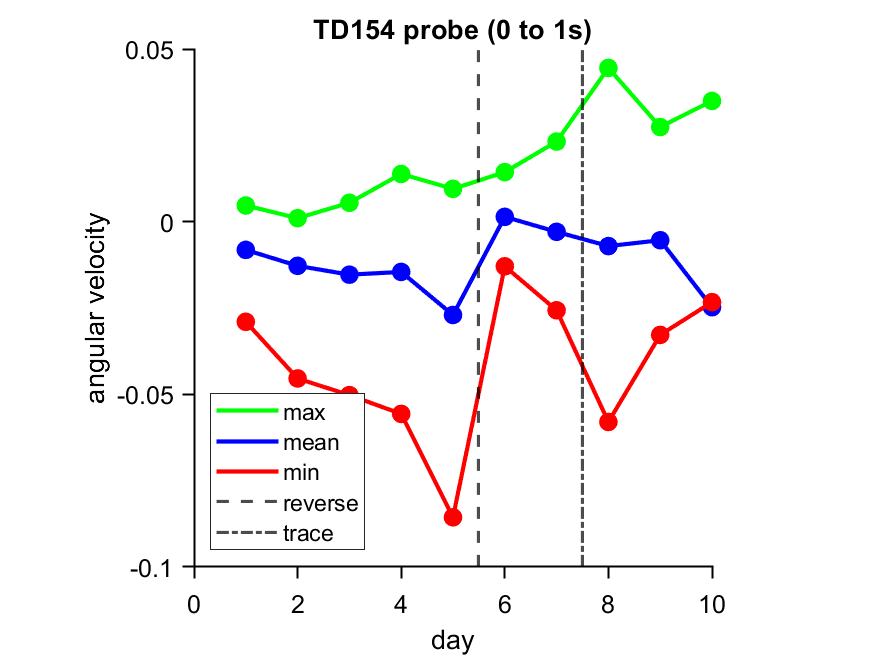
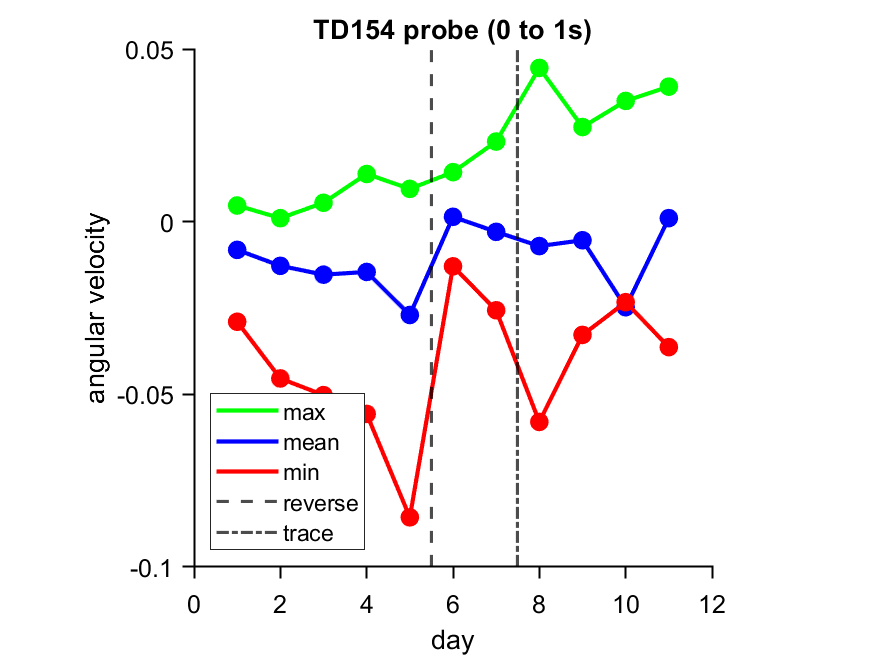
updated script multiple_d1_analysis
added data
also updated new script to take in multiple sessions of data and plot them

diff --git a/plotTrialHeatmaps2.m b/plotTrialHeatmaps2.m
@@ -1,0 +1,85 @@
+function plotTrialHeatmaps2(smooth_resamp_vels, trial_arrays, trialTypes, fs, window, doBaseline)
+% plotTrialHeatmaps2
+%   Plots trial-by-trial angular velocity aligned to cue onset.
+%   Handles multiple sessions (smooth_resamp_vels is a cell array: 1 cell per session).
+%
+% Inputs:
+%   smooth_resamp_vels : cell array of velocity vectors (1 cell per session)
+%   trial_arrays       : cell array of structs with .onsetTime (s)
+%   trialTypes         : labels for trial types (cell array of strings)
+%   fs                 : sampling rate (Hz)
+%   window             : [precue postcue] in seconds
+%   doBaseline         : logical, true = subtract baseline (pre-cue mean)
+
+precue  = window(1);
+postcue = window(2);
+timeAxis = -precue : 1/fs : postcue;
+
+nSessions = numel(smooth_resamp_vels);
+
+for tt = 1:numel(trial_arrays)
+    trials = trial_arrays{tt};
+
+    if ~isfield(trials,'onsetTime') || isempty(trials.onsetTime)
+        fprintf('No trials for %s\n', trialTypes{tt});
+        continue;
+    end
+
+    % --- Concatenate trials across sessions in order ---
+    onsetTimes = [];
+    trialSessionIdx = [];  % Keep track of which session each trial came from
+    for s = 1:nSessions
+        thisSession = trials.onsetTime(s,:);
+        thisSession = thisSession(~isnan(thisSession)); % drop padding
+        onsetTimes  = [onsetTimes, thisSession];
+        trialSessionIdx = [trialSessionIdx, repmat(s, 1, numel(thisSession))];
+    end
+
+    nTrials = numel(onsetTimes);
+    nTime   = numel(timeAxis);
+    trialMatrix = nan(nTrials, nTime);
+
+    % --- Extract aligned trial data for each session separately ---
+    for t = 1:nTrials
+        sIdx = trialSessionIdx(t);         % session index for this trial
+        velVec = smooth_resamp_vels{sIdx}; % velocity for this session
+
+        onsetFrame = round(onsetTimes(t) * fs);
+        winFrames  = round((-precue*fs : postcue*fs)) + onsetFrame;
+
+        if winFrames(1) < 1 || winFrames(end) > numel(velVec)
+            continue;
+        end
+
+        trialData = velVec(winFrames);
+
+        % --- baseline subtraction ---
+        if doBaseline
+            baselineIdx = timeAxis < 0; % indices before cue
+            baselineVal = mean(trialData(baselineIdx));
+            trialData   = trialData - baselineVal;
+        end
+
+        trialMatrix(t,:) = trialData;
+    end
+    % --- After trialMatrix is built and imagesc is called ---
+    figure;
+    imagesc(timeAxis, 1:nTrials, trialMatrix);
+    clim([-0.2 0.2]);  
+    colormap(hot); 
+    colorbar;
+    xlabel('time (s)');
+    ylabel('trial');
+    title(sprintf('angular velocity: %s', trialTypes{tt}));
+    xline(0,'w--','LineWidth',1.5);
+    
+    % --- Add session separators ---
+    sessionTrialCounts = cellfun(@(r) sum(~isnan(r)), num2cell(trials.onsetTime, 2)); 
+    cumulativeTrials = cumsum(sessionTrialCounts);
+    for k = 1:length(cumulativeTrials)-1
+        yline(cumulativeTrials(k)+0.5, 'w--', 'LineWidth', 1);
+    end
+    
+    SetFigBoxDefaults
+end
+end

diff --git a/Multiple_D1_Analysis.m b/Multiple_D1_Analysis.m
@@ -58,26 +58,32 @@ laser_pulse_dur = allStimuli(1).stimuli.lasertimes.laserPulseDur;
 laser_trial_freq = allStimuli(1).stimuli.lasertimes.laserFreq;
 laser_trial_dur = allStimuli(1).stimuli.lasertimes.laserDur;
 
-% Track cumulative time offset (to make times chronological)
-timeOffset = 0;
+%% --- Store session velocities and cue/laser times without cumulative offset ---
+% smooth_resamp_vels will be a cell array (each cell = one session)
+smooth_resamp_vels = cell(1, nSessions);
+
+% Determine max number of cues/lasers across sessions for padding
+maxCue1 = max(cellfun(@(s) numel(s.stimuli.cue1times), num2cell(allStimuli)));
+maxCue2 = max(cellfun(@(s) numel(s.stimuli.cue2times), num2cell(allStimuli)));
+maxLaser = max(cellfun(@(s) numel(s.stimuli.lasertimes.laserontimes), num2cell(allStimuli)));
+
+% Initialize numeric arrays with NaNs for cues and lasers
+Cue1_times = nan(nSessions, maxCue1);
+Cue2_times = nan(nSessions, maxCue2);
+laser_trial_times = nan(nSessions, maxLaser);
 
 for i = 1:nSessions
     stim = allStimuli(i).stimuli;
 
-    % --- concat ball velocity ---
-    smooth_resamp_vels = [smooth_resamp_vels; stim.ball_angular_vel];
+    % --- store session velocities ---
+    smooth_resamp_vels{i} = stim.ball_angular_vel;
 
-    % --- cue times (adjusted for offset) ---
-    Cue1_times = [Cue1_times; stim.cue1times + timeOffset];
-    Cue2_times = [Cue2_times; stim.cue2times + timeOffset];
-
-    % --- laser onset times (adjusted for offset) ---
-    laser_trial_times = [laser_trial_times; stim.lasertimes.laserontimes + timeOffset];
-
-    % update offset (convert to seconds based on sample count / sampling freq)
-    durationSec = numel(stim.ball_angular_vel) / stim.stimsamplingrate;
-    timeOffset = timeOffset + durationSec;
+    % --- pad cue/laser times with NaNs to fit numeric array ---
+    Cue1_times(i,1:numel(stim.cue1times)) = stim.cue1times;
+    Cue2_times(i,1:numel(stim.cue2times)) = stim.cue2times;
+    laser_trial_times(i,1:numel(stim.lasertimes.laserontimes)) = stim.lasertimes.laserontimes;
 end
+
 
 %% Build Cue structures
 Cue1 = struct();
@@ -101,10 +107,10 @@ trialTypes  = {'Cue 1','Cue 2','Probe'};
 trial_arrays = {new_cue1, new_cue2, cue_probe};
 
 precue = 1;
-postcue = 6;
+postcue = 5;
 doBaseline = 0; % Only really matters if mouse is runnning a lot before cue onset
 
-plotTrialHeatmaps(smooth_resamp_vels, trial_arrays, trialTypes, finalFPS, [precue, postcue], doBaseline);
+plotTrialHeatmaps2(smooth_resamp_vels, trial_arrays, trialTypes, finalFPS, [precue, postcue], doBaseline);
 
 %% --- Save figures: CHANGE NAME ---
 % parts = strsplit(ch_info_file, filesep); % split into parts

diff --git a/plotProbeData.m b/plotProbeData.m
@@ -3,9 +3,9 @@ close all;
 clc; 
 
 %% TD154 data
-mean1 = [-0.0081648, -0.012791, -0.015346, -0.014557, -0.027026, 0.0014098, -0.0029423, -0.007067, -0.0053801, -0.024778];
-max1  = [0.00468, 0.0010162, 0.0054669, 0.013812, 0.0095074, 0.014332, 0.023203, 0.044513, 0.0274, 0.034967];
-min1  = [-0.028989, -0.045408, -0.050223, -0.055668, -0.085605, -0.012924, -0.025659, -0.057995, -0.032793, -0.023314];
+mean1 = [-0.0081648, -0.012791, -0.015346, -0.014557, -0.027026, 0.0014098, -0.0029423, -0.007067, -0.0053801, -0.024778, 0.0010245];
+max1  = [0.00468, 0.0010162, 0.0054669, 0.013812, 0.0095074, 0.014332, 0.023203, 0.044513, 0.0274, 0.034967, 0.039099];
+min1  = [-0.028989, -0.045408, -0.050223, -0.055668, -0.085605, -0.012924, -0.025659, -0.057995, -0.032793, -0.023314, -0.036337];
 
 days = 1:length(mean1);
 
@@ -38,9 +38,9 @@ title('TD154 probe (0 to 1s)')
 SetFigBoxDefaults;
 
 %% TD156 data
-mean2 = [-4.2452e-09, -0.0022693, -0.0014784, -0.0066969, -0.011882, -0.0064348, -0.0012733, -0.00054449, -0.0027113, -0.0029481];
-max2  = [5.6757e-07, 0.0070748, 0.017557, 0.017062, 0.0087232, 0.0086896, 0.0056006, 0.0085419, 0.008217, 0.016102];
-min2  = [-7.0367e-07, -0.012734, -0.0134, -0.031151, -0.034393, -0.03194, -0.0075394, -0.0099478, -0.018919, -0.024778];
+mean2 = [-4.2452e-09, -0.0022693, -0.0014784, -0.0066969, -0.011882, -0.0064348, -0.0012733, -0.00054449, -0.0027113, -0.0029481, -0.0034147];
+max2  = [5.6757e-07, 0.0070748, 0.017557, 0.017062, 0.0087232, 0.0086896, 0.0056006, 0.0085419, 0.008217, 0.016102, 0.008388];
+min2  = [-7.0367e-07, -0.012734, -0.0134, -0.031151, -0.034393, -0.03194, -0.0075394, -0.0099478, -0.018919, -0.024778, -0.029683];
 
 days = 1:length(mean2);
 

diff --git a/Single_D1_Analysis.m b/Single_D1_Analysis.m
@@ -127,7 +127,7 @@ session = parts{5};
 tokens = regexp(session, '^(\d+)_', 'tokens'); % extracts session number before underscore
 sessionNum = str2double(tokens{1}{1});
 
-doSave = 1;
+doSave = 0;
 if doSave
     saveas(figure(1), sprintf('%s_session%d.png', name, sessionNum))
     saveas(figure(2), sprintf('%s_session%d_Cue1trials.png', name, sessionNum))
